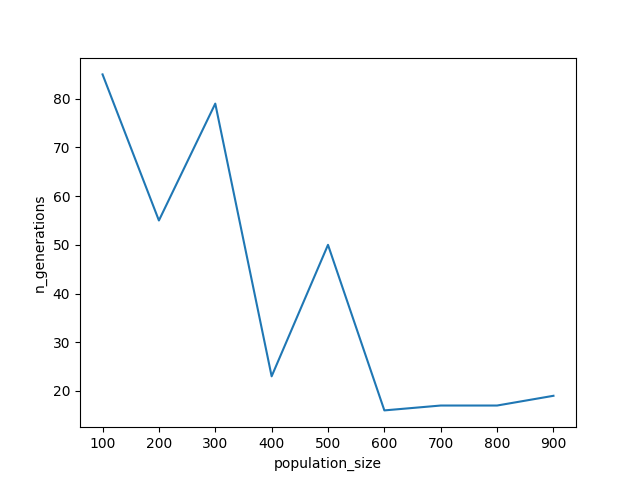
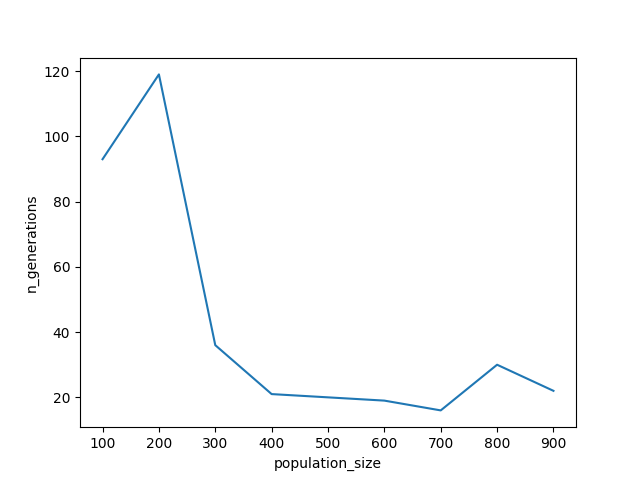
Cambio en el readme

diff --git a/README.md b/README.md
@@ -48,6 +48,25 @@ permita una rápida convergencia. Pista: ¿Tal vez elegir de manera diferente lo
 parámetro. ¿Qué conclusión se puede obtener de este cambio?
 6. Cree un nuevo caso de estudio 4. Altere el tamaño de la población, ¿es beneficioso o no
 aumentar la población?
+Como se puede observar que al aumentar la population vemos que el número de generaciones disminuye y converge más rápidamente.
+![](Taller4/AlgoritmosGeneticos/images/population_vs_ngenerations.png)
+
+Aquí vemos la performance en tiempo y número de generations para diferentes tamaños de población.
+
+
+| population_size | n_generations | execution_time |
+|-----------------|---------------|----------------|
+|             100 |            93 |       0.159570 |
+|             200 |           119 |       0.421872 |
+|             300 |            36 |       0.197471 |
+|             400 |            21 |       0.155585 |
+|             500 |            20 |       0.176497 |
+|             600 |            19 |       0.207475 |
+|             700 |            16 |       0.200449 |
+|             800 |            30 |       0.441833 |
+|             900 |            22 |       0.367986 |
+
+
 7. De todo lo aprendido, cree el caso de estudio definitivo (caso de estudio 5) el cual tiene lo
 mejor de los ítems 4, 5, 6.
 
